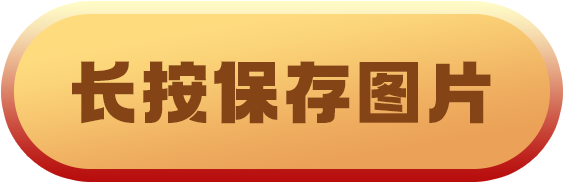
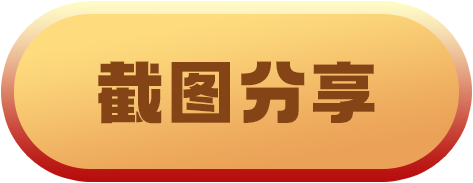
fix: 修改分享按钮图片；修改返回首页展示；添加用户验证；修改分享排序展示

diff --git a/look-handler-html/src/main/resources/static/question/question.js b/look-handler-html/src/main/resources/static/question/question.js
@@ -2,6 +2,7 @@ var problemsList = [];
 var result = {}, resultMapping = [];
 var curIndex = 0, maxIndex = 20;
 var makeInfo = {};
+
 $(function() {
 	let curHeight = document.body.scrollHeight;
 	$("#main").css("height", curHeight + "px");
@@ -56,13 +57,19 @@ function submit() {
 	if(!makeInfo.name) {alert("姓名必填！"); return;}
 	if(!makeInfo.post) {alert("岗位必填！"); return;}
 	
-	//获取当前用户排名数据
-	get({name: makeInfo.name, post: makeInfo.post}, function(res) {
+	var onlyUser = {name: makeInfo.name, post: makeInfo.post};
+	//已经答题过得无法再答题
+	verifyUser(onlyUser, function(res) {
 		if(res.code == 200) {
-			$("#rank-score").text("你的最高分：" + (res.data ? res.data.score : "-") + "分");
-			$("#rank-num").text("目前排名：" + (res.data ? res.data.num : "-") + "名");
-			$("#user").hide(); $("#ranking").show();
-			$("#main").css("background-image", "url('/question/img/ranking.jpg')");
+			//获取当前用户排名数据
+			get(onlyUser, function(res) {
+				if(res.code == 200) {
+					$("#rank-score").text("你的最高分：" + (res.data ? res.data.score : "-") + "分");
+					$("#rank-num").text("目前排名：" + (res.data ? res.data.num : "-") + "名");
+					$("#user").hide(); $("#ranking").show();
+					$("#main").css("background-image", "url('/question/img/ranking.jpg')");
+				} else {alert(res.msg);}
+			});
 		} else {alert(res.msg);}
 	});
 }
@@ -167,4 +174,10 @@ function render() {
 function checkBt(obj, isMany) {
 	if(isMany) {$(obj).find("input").click();}
 	else {$(obj).find("input").prop("checked", "checked");}
+}
+
+//返回首页
+function backMain() {
+	localStorage.setItem("isBack", true);
+	location.href = '/main';
 }

diff --git a/look-handler-html/src/main/resources/static/main/main.js b/look-handler-html/src/main/resources/static/main/main.js
@@ -1,16 +1,18 @@
 $(function() {
 	let curHeight = document.body.scrollHeight;
 	$("#main").css("height", curHeight + "px");
-	$(".next").hide(); $("index").hide(); $("#read").hide();
+	$(".next").hide(); $("#index").hide(); $("#read").hide();
+	
+	var isBack = localStorage.getItem("isBack"); //特殊返回标志
 	//开始加载
-	startPlay();
+	if(isBack) {localStorage.removeItem("isBack"); next($(".next"));} else {startPlay();}
 });
 
 //开始播放
 function startPlay() {
 	setTimeout(function() {
 		$("#main").css("background-image", "url('/main/img/main.jpg')");
-		$(".next").show(); $("index").show();
+		$(".next").show();
 	}, 500)
 }
 

diff --git a/look-handler-html/src/main/resources/templates/question.html b/look-handler-html/src/main/resources/templates/question.html
@@ -85,7 +85,7 @@
 				<div id="order">XXX</div>
 				<div class="order-make">
 					<div class="rec" onclick="location.reload()"></div>
-					<div class="back" onclick="location.href = '/main'"></div>
+					<div class="back" onclick="backMain()"></div>
 				</div>
 			</div>
 		</div>

diff --git a/look-handler-html/src/main/resources/static/question/api.js b/look-handler-html/src/main/resources/static/question/api.js
@@ -12,3 +12,8 @@ function get(data, result) {
 function getPosts(place, result) {
 	$.post("/data/handler/post/getPosts", {place: place}, result);
 }
+
+//验证用户是否提交过
+function verifyUser(data, result) {
+	$.post("/data/handler/question/verify", data, result);
+}

diff --git a/look-handler-html/src/main/resources/templates/read.html b/look-handler-html/src/main/resources/templates/read.html
@@ -16,7 +16,7 @@
 				</div>
 			</div>
 			<div class="read-b">
-				<div class="back" onclick="location.href = '/main'"></div>
+				<div class="back" onclick="backMain()"></div>
 			</div>
 		</div>
 		<div id="user">

diff --git a/look-handler-html/src/main/resources/static/read/read.js b/look-handler-html/src/main/resources/static/read/read.js
@@ -25,3 +25,9 @@ function playAudio() {
 function openBill() {
 	location.href = "/bill";
 }
+
+//返回首页
+function backMain() {
+	localStorage.setItem("isBack", true);
+	location.href = '/main';
+}

diff --git a/look-handler-html/src/main/java/com/huidihao/handler/html/controller/HomeController.java b/look-handler-html/src/main/java/com/huidihao/handler/html/controller/HomeController.java
@@ -38,7 +38,7 @@ public class HomeController {
 	@GetMapping("/read")
 	public String read(@RequestParam("place") String place, Model model) {
 		AudioMsgDto audioMsgDto = new AudioMsgDto();
-		audioMsgDto.setPlace(place).setPageNum(1).setPageSize(100);
+		audioMsgDto.setPlace(place).setPageNum(1).setPageSize((int) Short.MAX_VALUE);
 		model.addAttribute("datas", audioMsgApi.list(audioMsgDto));
 		model.addAttribute("place", place);
 		return "read";
@@ -57,7 +57,7 @@ public class HomeController {
 	@GetMapping("/question")
 	public String question(Model model) {
 		QuestionDto questionDto = new QuestionDto();
-		questionDto.setPageNum(1).setPageSize(100);
+		questionDto.setPageNum(1).setPageSize((int) Short.MAX_VALUE);
 		/* 分页查询 */
 		model.addAttribute("datas", questionApi.list(questionDto));
 		return "question";

diff --git a/look-handler-core/src/main/java/com/huidihao/handler/core/service/QuestionService.java b/look-handler-core/src/main/java/com/huidihao/handler/core/service/QuestionService.java
@@ -52,6 +52,12 @@ public class QuestionService extends AbstractService<QuestionDto, QuestionEntity
 	}
 	
 	@Override
+	public void verify(String name, String post) {
+		Condition cd = new Condition("name", name).and("post", post);
+		Assert.isTrue(count(cd) == 0, String.format("当前岗位[%s]人员[%s]已经答题过了，无法再次答题！", post, name));
+	}
+	
+	@Override
 	public List<QuestionDto> list(QuestionDto questionDto) {
 		List<QuestionDto> findAll = findAll(new Condition().limit(questionDto).orderBy(new JoinTable(this, null), "score", false));
 		for (int i = 0, j = findAll.size(); i < j; i++) {findAll.get(i).setNum(i + 1);}

diff --git a/look-handler-core/src/main/java/com/huidihao/handler/core/service/AudioMsgService.java b/look-handler-core/src/main/java/com/huidihao/handler/core/service/AudioMsgService.java
@@ -101,7 +101,8 @@ public class AudioMsgService extends AbstractService<AudioMsgDto, AudioMsgEntity
 
 	@Override
 	public List<AudioMsgDto> list(AudioMsgDto audioMsgDto) {
-		return findAll(new Condition("place", audioMsgDto.getPlace()).limit(audioMsgDto));
+		return findAll(new Condition("place", audioMsgDto.getPlace()).limit(audioMsgDto)
+				.orderBy(null, "sort", false).orderBy(null, "id", false));
 	}
 	
 	@Override

diff --git a/look-handler-core/src/main/java/com/huidihao/handler/core/controller/QuestionController.java b/look-handler-core/src/main/java/com/huidihao/handler/core/controller/QuestionController.java
@@ -30,4 +30,9 @@ public class QuestionController extends AbstractController<QuestionService>{
 	public Response get(@RequestParam("name") String name, @RequestParam("post") String post) {
 		return OK(s -> s.get(name, post));
 	}
+	
+	@PostMapping("/verify")
+	public Response verify(@RequestParam("name") String name, @RequestParam("post") String post) {
+		return OKV(s -> s.verify(name, post));
+	}
 }

diff --git a/look-handler-api/src/main/java/com/huidihao/handler/api/open/QuestionApi.java b/look-handler-api/src/main/java/com/huidihao/handler/api/open/QuestionApi.java
@@ -29,6 +29,13 @@ public interface QuestionApi {
 	public QuestionDto get(String name, String post);
 	
 	/**
+	 * @描述 验证答题人员
+	 * @param name 答题人员
+	 * @param post 岗位
+	 */
+	public void verify(String name, String post);
+	
+	/**
 	 * @描述 获取所有答题参数
 	 * @param questionDto 答题参数
 	 * @return 所有答题参数

diff --git a/look-handler-api/src/main/java/com/huidihao/handler/api/dto/AudioMsgDto.java b/look-handler-api/src/main/java/com/huidihao/handler/api/dto/AudioMsgDto.java
@@ -40,6 +40,8 @@ public class AudioMsgDto extends BaseDto {
 	private String audioPath;
 	/* 录音名 */
 	private String audioName;
+	/* 排序 - 越小越低 */
+	private Byte sort;
 	
 	/* 音频文件 */
 	private MultipartFile file;
